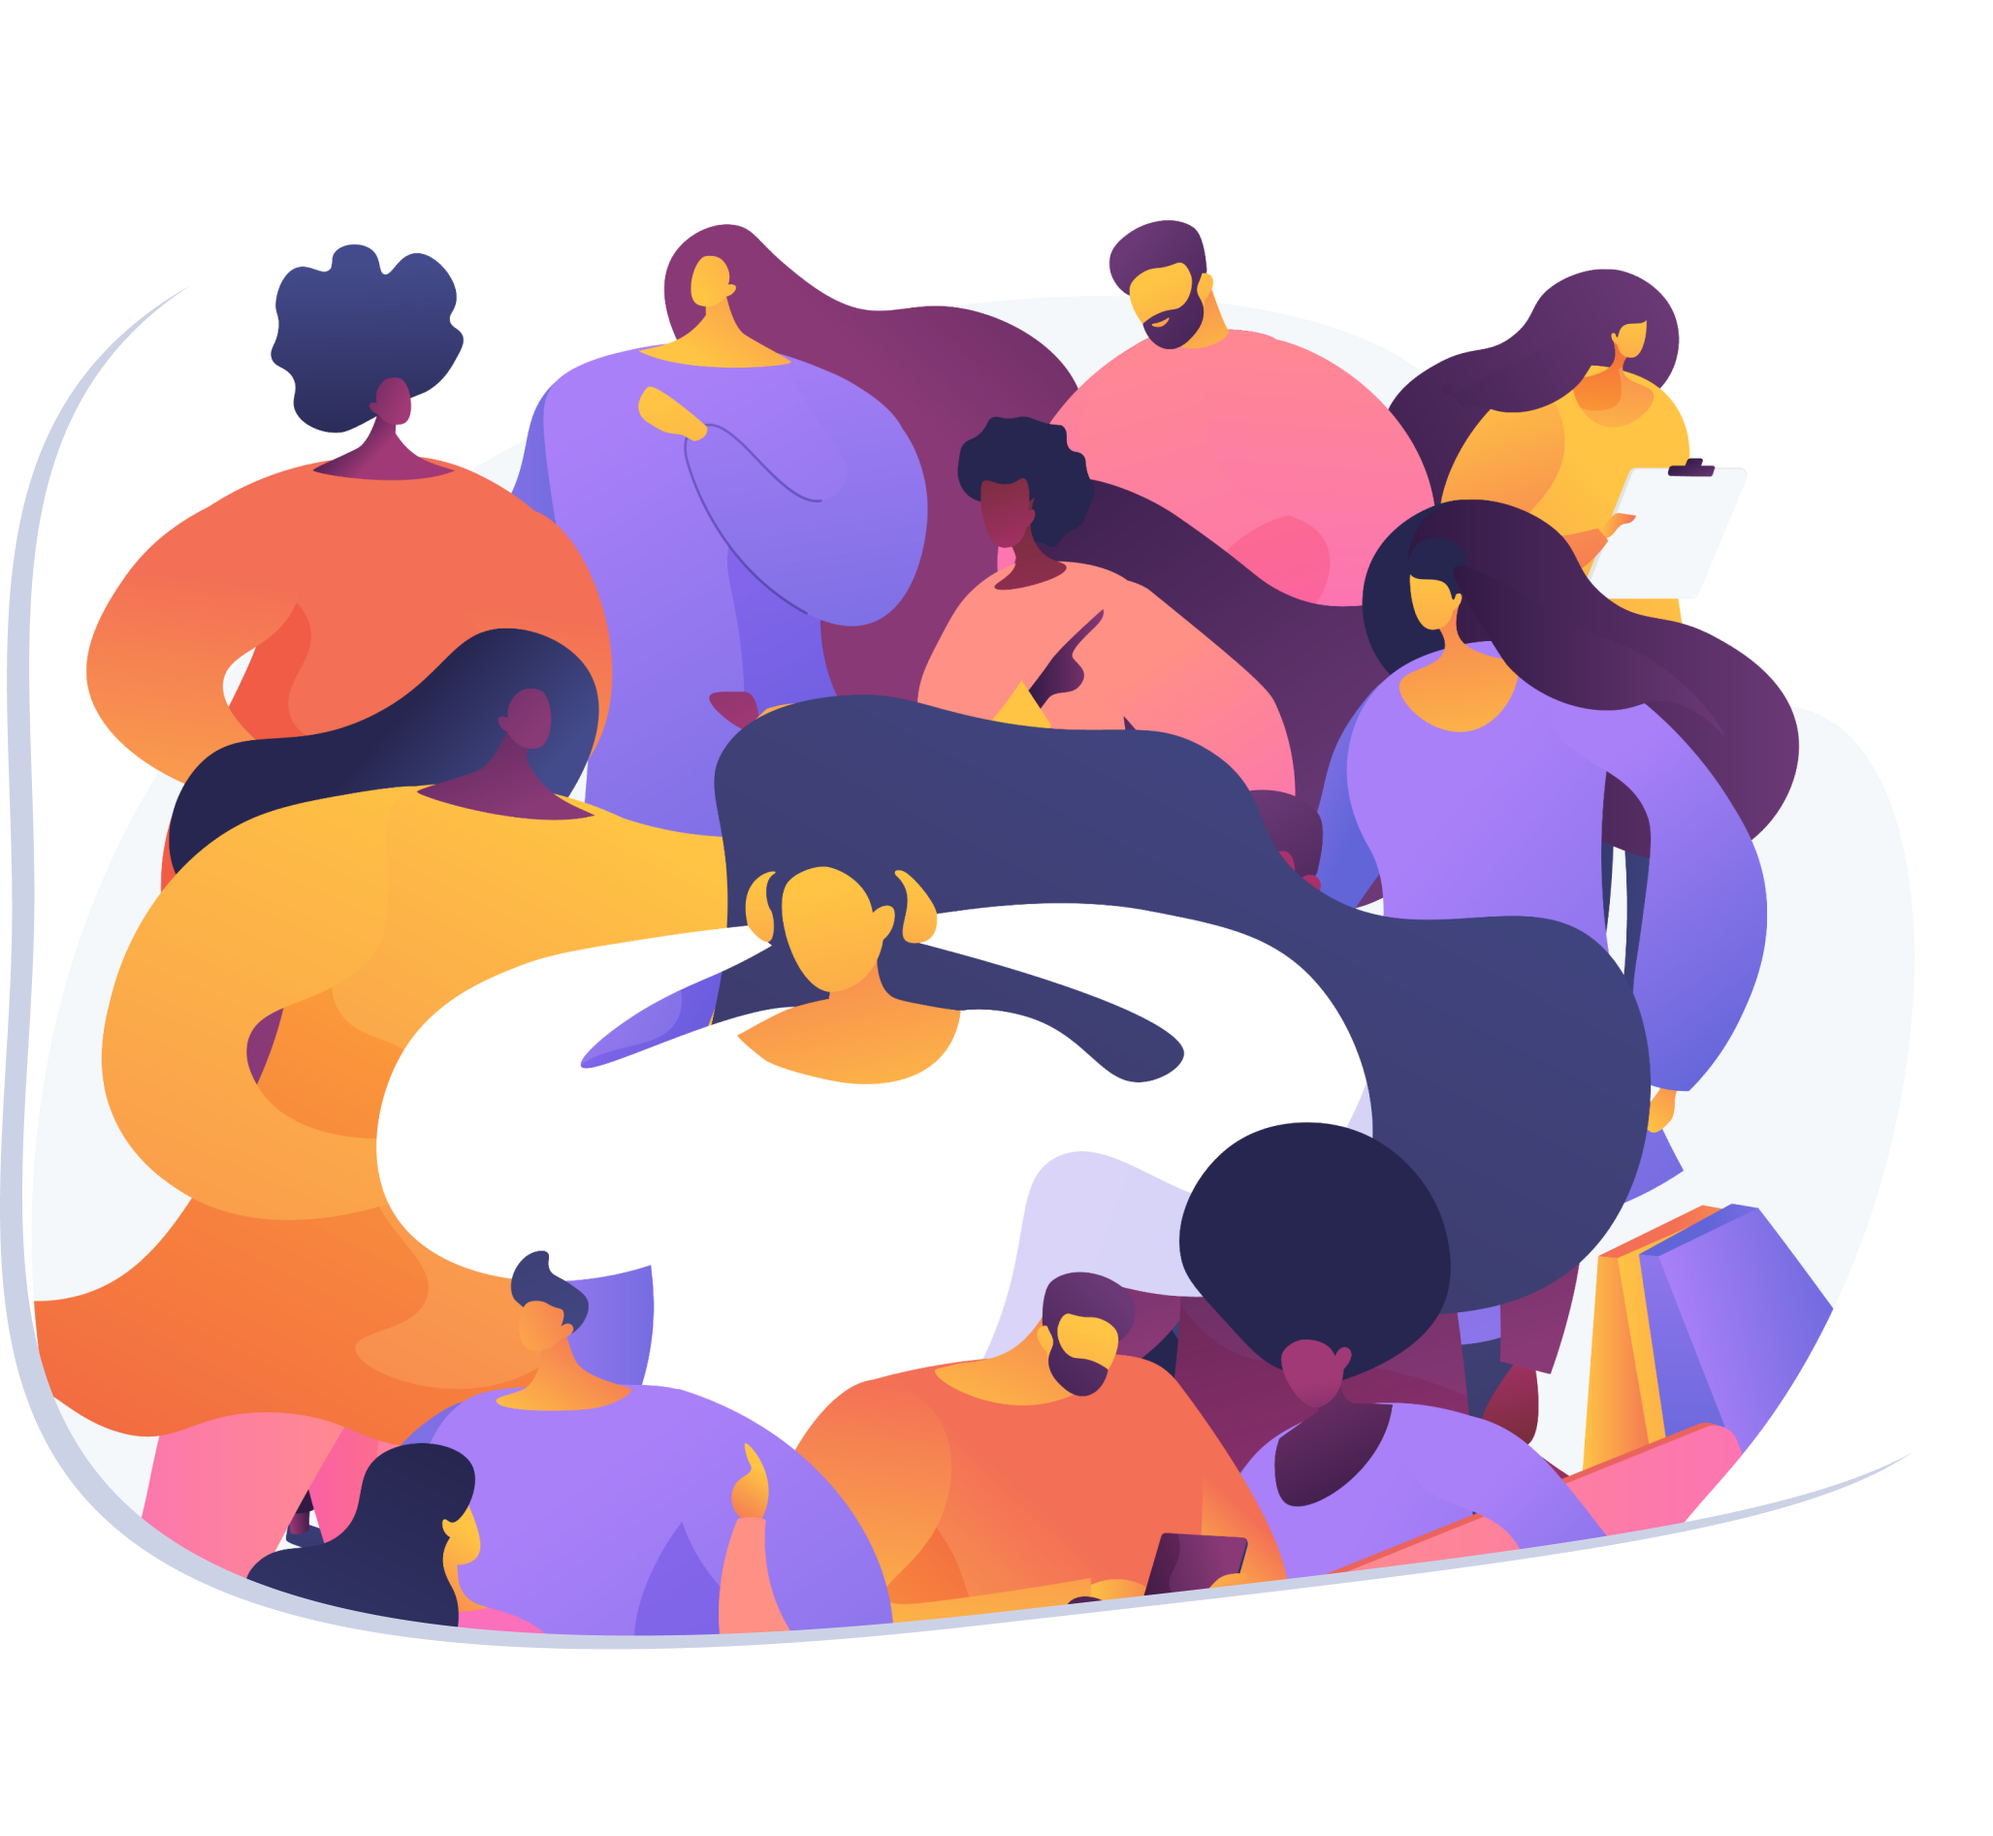
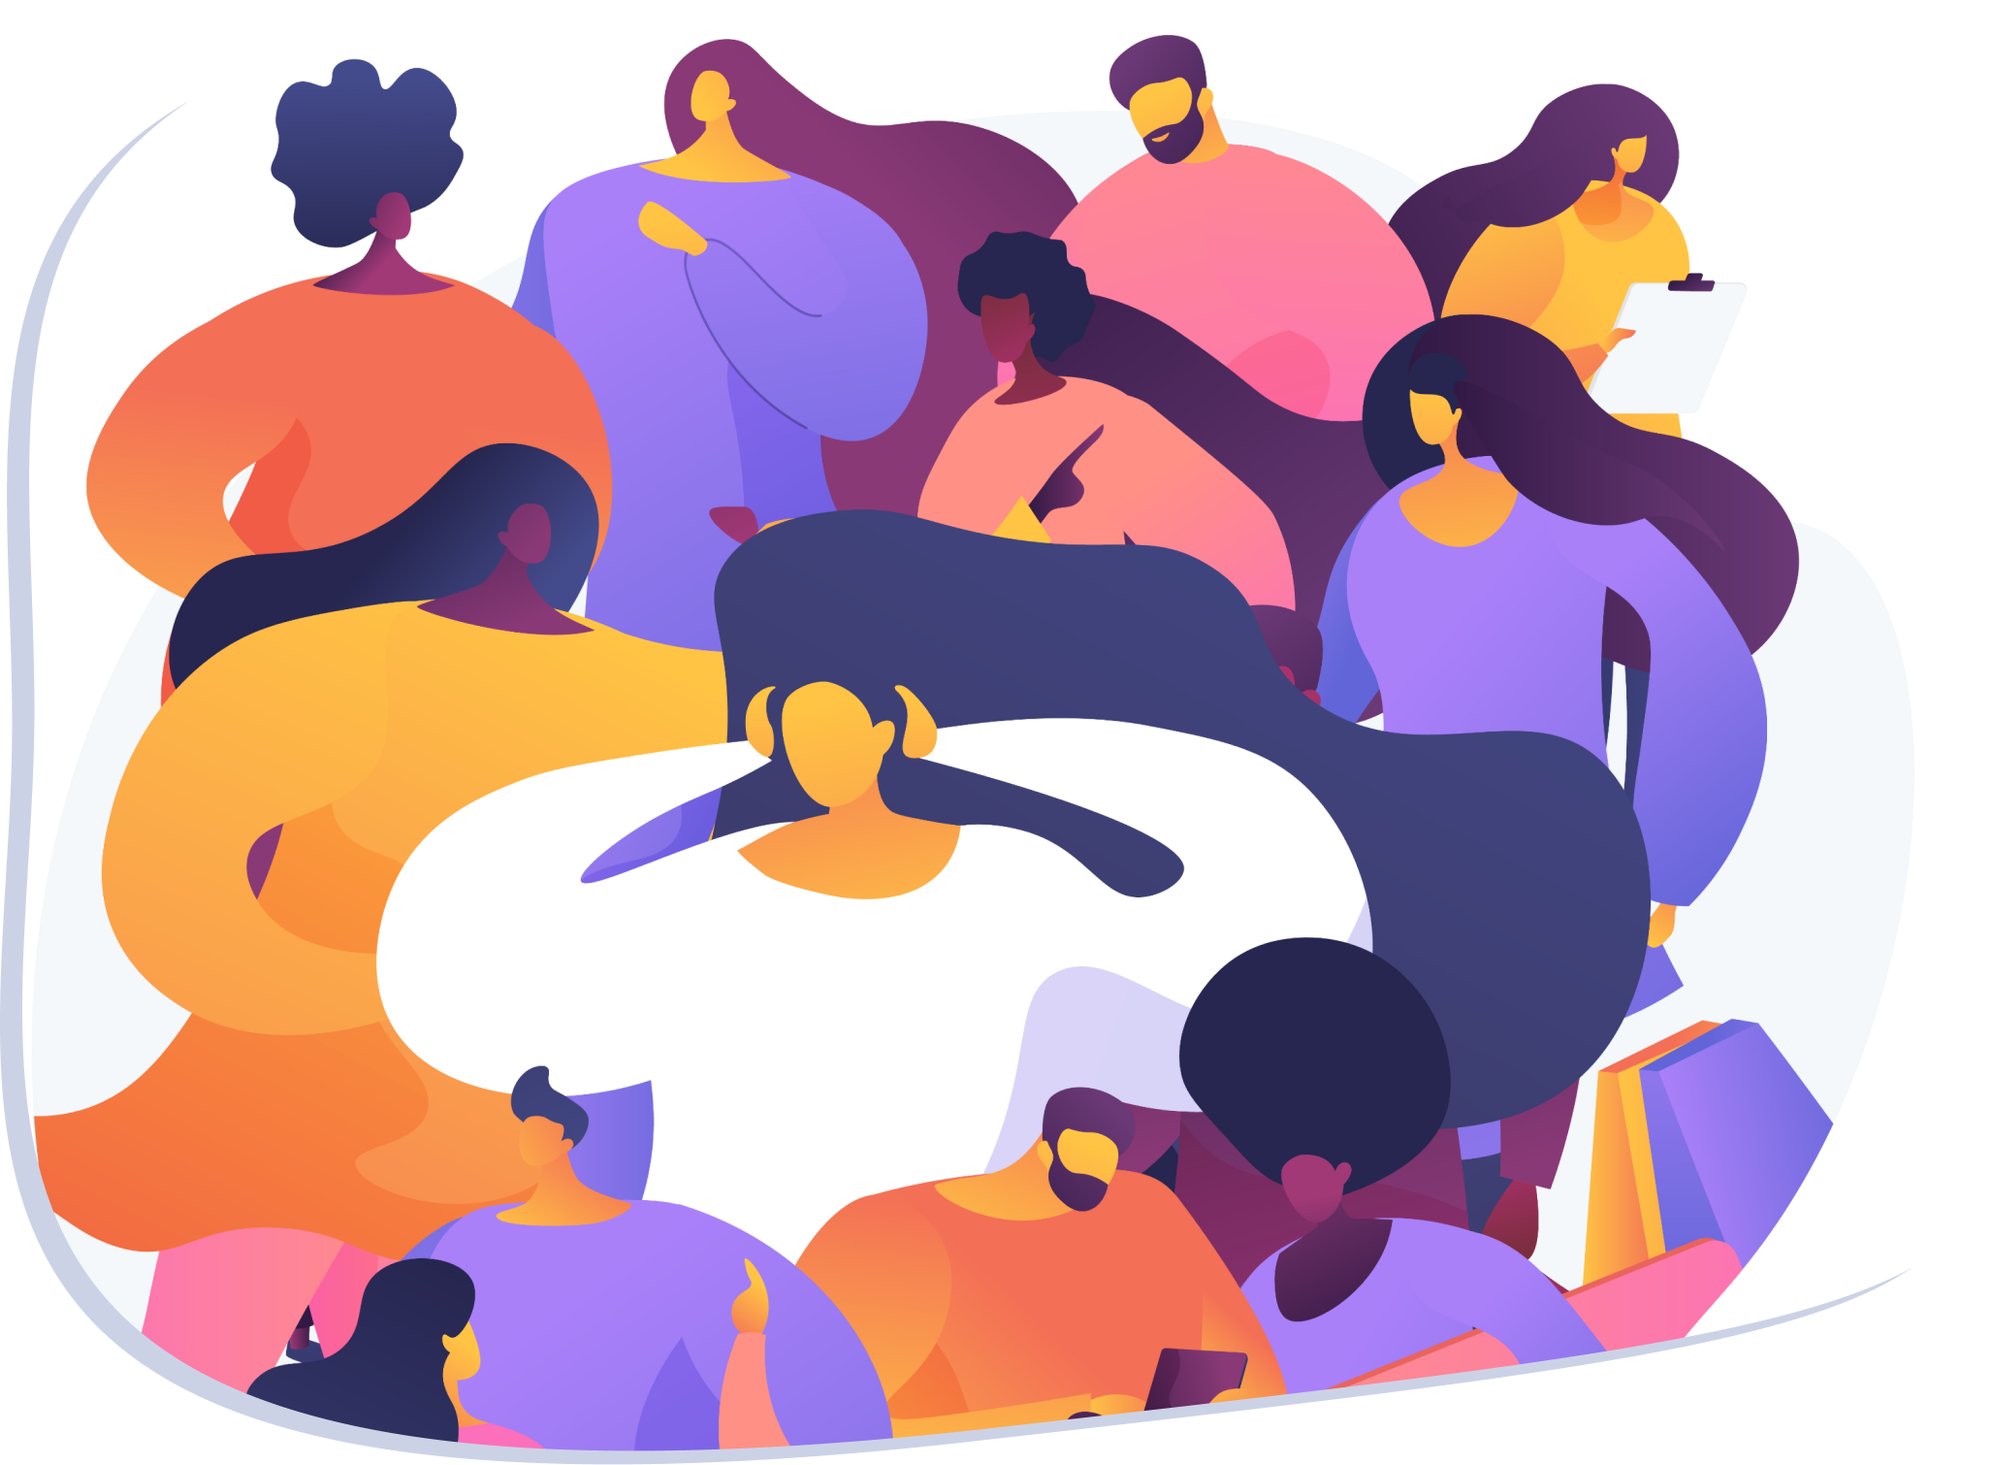
update: fix responsive image

diff --git a/index.html b/index.html
@@ -9,8 +9,10 @@
     <link rel="preconnect" href="https://fonts.gstatic.com" crossorigin />
     <link rel="preconnect" href="https://fonts.googleapis.com" />
     <link rel="preconnect" href="https://fonts.gstatic.com" crossorigin />
+    <link rel="preconnect" href="https://fonts.googleapis.com" />
+    <link rel="preconnect" href="https://fonts.gstatic.com" crossorigin />
     <link
-      href="https://fonts.googleapis.com/css2?family=Poppins:ital,wght@0,100;0,200;0,300;0,400;0,500;0,600;0,700;0,800;0,900;1,100;1,200;1,300;1,400;1,500;1,600;1,700;1,800;1,900&family=Vollkorn:ital,wght@0,400;0,500;0,600;0,700;0,800;0,900;1,400;1,500;1,600;1,700;1,800;1,900&display=swap"
+      href="https://fonts.googleapis.com/css2?family=EB+Garamond:ital,wght@0,400;0,500;0,600;0,700;0,800;1,400;1,500;1,600;1,700;1,800&family=Poppins:ital,wght@0,100;0,200;0,300;0,400;0,500;0,600;0,700;0,800;0,900;1,100;1,200;1,300;1,400;1,500;1,600;1,700;1,800;1,900&display=swap"
       rel="stylesheet"
     />
     <meta name="viewport" content="width=device-width, initial-scale=1.0" />

diff --git a/src/pages/Home/index.jsx b/src/pages/Home/index.jsx
@@ -57,7 +57,7 @@ export default function () {
             </div>
 
             <div className="lg:col-start-8 lg:col-span-5 col-span-12 justify-center">
-              <img src={CreativityImg} alt="" />
+              <img src={CreativityImg} className="lg:pt-0 pt-10" alt="" />
             </div>
           </div>
         </div>
@@ -107,7 +107,7 @@ export default function () {
         <div className="container mx-auto lg:px-0 px-6 lg:py-32 py-16">
           <div className="grid grid-cols-12">
             <div className="lg:col-span-5 col-span-12 justify-center">
-              <img src={GroupworkImg} alt="" />
+              <img src={GroupworkImg} className="lg:pb-0 pb-10" alt="" />
             </div>
             <div className="lg:col-start-7 lg:col-span-6 lg:gap-10 col-span-12 gap-6 flex flex-col justify-center">
               <Typography size="res-4xl" weight="semibold">
